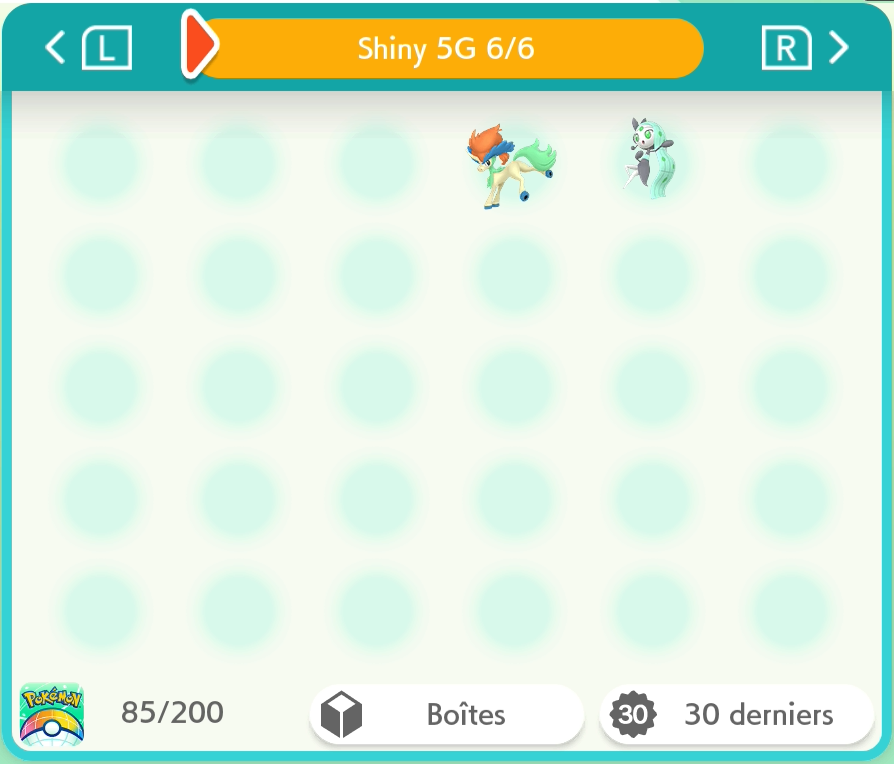
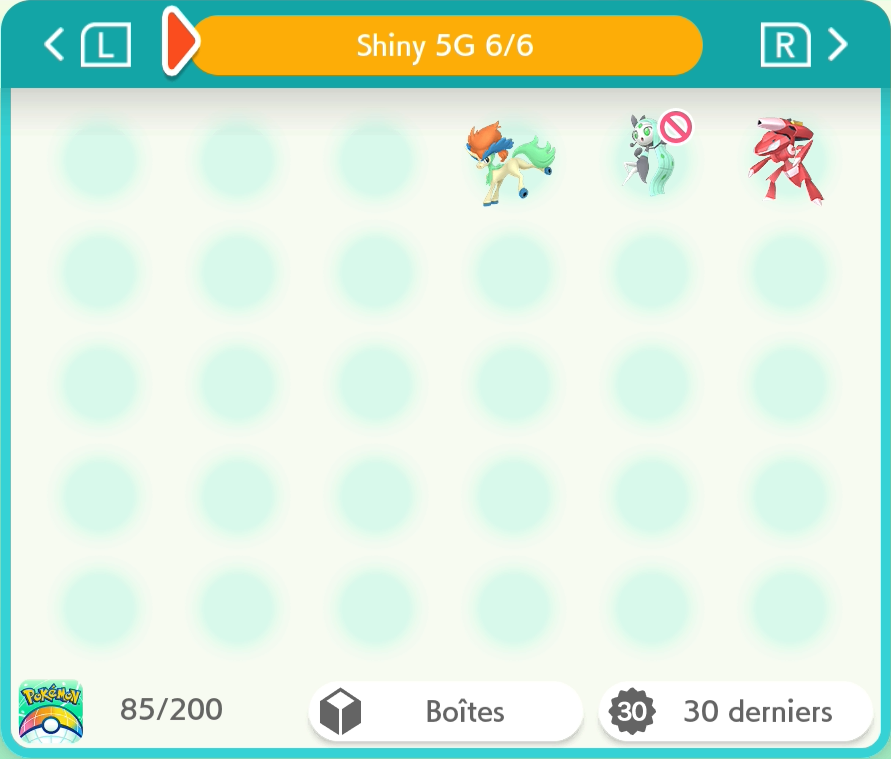
5G : Genesect

Changed region(s): [[0.0, 0.0, 1.0, 1.0], [0.5152, 0.1515, 0.6364, 0.2727], [0.8182, 0.1515, 0.9394, 0.2727]]

diff --git a/README.md b/README.md
@@ -2,8 +2,8 @@
 
 Pokémon-Elément-Sh -> <a href="https://www.pokemon-element-sh.fr/profil/karyno21" target="_blank">Karyno21</a>
 
-↓ Dernière Update le 16/09/2026 à 13h38 ↓
-### Dex National [269/999] +8
+↓ Dernière Update le 16/09/2026 à 19h45 ↓
+### Dex National [270/999] +9
 
 | Gen | Prog | Notes |
 |:--:|:--:|---|
@@ -11,7 +11,7 @@ Pokémon-Elément-Sh -> <a href="https://www.pokemon-element-sh.fr/profil/karyno
 |2G|33/100|+1 Celebi|
 |3G|22/135|+1 Spinda|
 |4G|20/107||
-|5G|28/154||
+|5G|29/154|+1 Genesect (JP Event)|
 |6G|22/70||
 |7G|19/84|+3 Type:0, Silvallié & Mandrillon|
 |8G|32/90||
